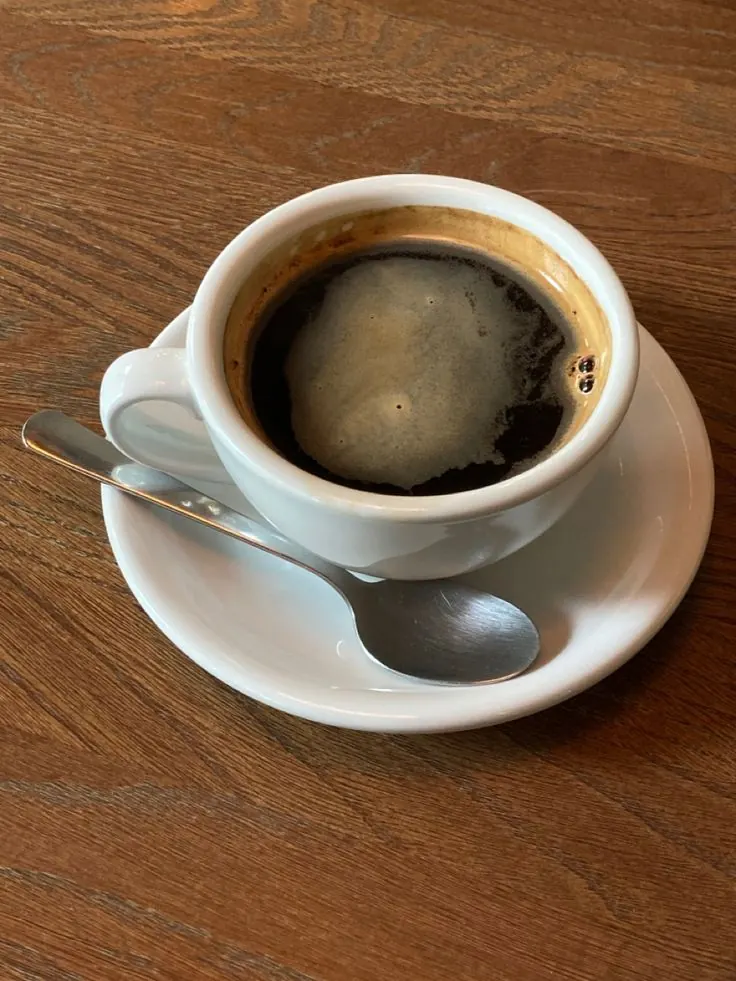
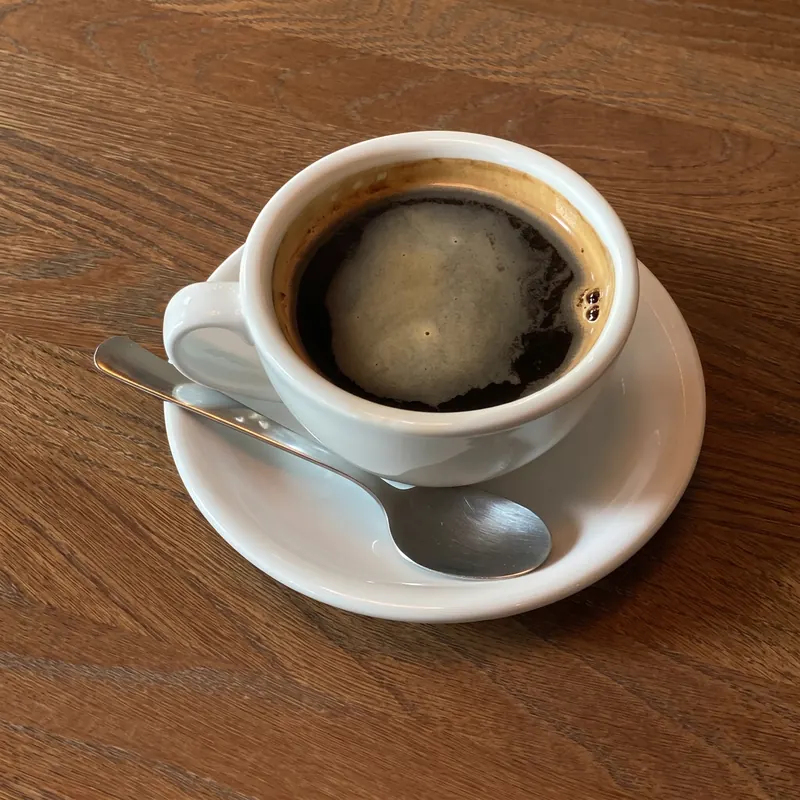
feat(fotos): unifica platos en formato cuadrado 1:1
Reemplaza fotos de carta por versiones cuadradas 2048px del mismo plato. Limpia WebP sin uso y actualiza dimensiones en tarjetas.

diff --git a/app.js b/app.js
@@ -5,7 +5,7 @@ const ITEMS = [
  {c:'tacos',t:'Tacos Birria x3',p:'S/28',d:'Adobo birria, carne jugosa, queso fundido + consomé.',tag:'Más pedido',m:'quiero+Tacos+Birria+x3',img:'./img/webp/taco-birria.webp'},
  {c:'tacos',t:'Tacos Tradicionales',p:'S/14–20',d:'Carne o pollo, lechuga, tomate, guacamole, crema, cebolla caramelizada. 2x S/14 / 3x S/20.',tag:'Clásico',m:'quiero+Tacos+Tradicionales',img:'./img/webp/taco-tradicional.webp'},
  {c:'tacos',t:'Tacos Bell x3',p:'S/24',d:'Tacos crocantes con bastante queso y sus cremas. Carne o pollo.',tag:'Crocante',m:'quiero+Tacos+Bell'},
- {c:'espe',t:'Enchiladas Rojas x2',p:'S/18',d:'Base de tomate y tortillas, queso derretido bañado con crema y salsa roja.',tag:'Salsa casera',m:'quiero+Enchiladas+Rojas',img:'./img/webp/enchilada.webp'},
+ {c:'espe',t:'Enchiladas Rojas x2',p:'S/18',d:'Base de tomate y tortillas, queso derretido bañado con crema y salsa roja.',tag:'Salsa casera',m:'quiero+Enchiladas+Rojas',img:'./img/webp/enchiladas-rojas.webp'},
  {c:'espe',t:'Quesadillas',p:'S/16',d:'Pollito con chilli y quesito crocante en plancha (guacamole, crema, salsa roja).',tag:'Favorito',m:'quiero+Quesadillas',img:'./img/webp/quesadilla.webp'},
  {c:'espe',t:'Nachos',p:'S/28',d:'Nachos, carne, cheddar, guacamole, salsa blanca, salsa mexicana y jalapeños cortados.',tag:'Para compartir',m:'quiero+Nachos'},
  {c:'tacos',t:'Taquitos x2',p:'S/16',d:'Crocante y jugosa carne, queso horneado.',tag:'Crocantes',m:'quiero+Taquitos'},
@@ -13,12 +13,12 @@ const ITEMS = [
  {c:'alitas',t:'Alita BBQ x6',p:'S/21',d:'Incluye papas crocantes.',tag:'Con papas',m:'quiero+Alitas+BBQ',img:'./img/webp/alitas.webp'},
  {c:'alitas',t:'Alita Acevichada x6',p:'S/21',d:'Incluye papas crocantes.',tag:'Con papas',m:'quiero+Alitas+Acevichada',img:'./img/webp/alitas.webp'},
  {c:'alitas',t:'Alita Búfalo x6',p:'S/21',d:'Incluye papas crocantes.',tag:'Picante',m:'quiero+Alitas+Bufalo',img:'./img/webp/alitas.webp'},
- {c:'chamoy',t:'Chamoyada de Fresa',p:'S/16–21',d:'Fresa natural con chamoy y tajín. 16oz S/16 / 20oz S/21.',tag:'Helada',m:'quiero+Chamoyada+Fresa'},
- {c:'chamoy',t:'Chamoyada de Mango',p:'S/16–21',d:'Mango natural con chamoy y tajín. 16oz S/16 / 20oz S/21.',tag:'Helada',m:'quiero+Chamoyada+Mango',img:'./img/webp/chamoyada-mango.webp'},
- {c:'chamoy',t:'Mango Enchilado',p:'S/14',d:'Mango, tajín, chamoy, takis, limón.',tag:'Botana',m:'quiero+Mango+enchilado'},
+ {c:'chamoy',t:'Chamoyada de Fresa',p:'S/16–21',d:'Fresa natural con chamoy y tajín. 16oz S/16 / 20oz S/21.',tag:'Helada',m:'quiero+Chamoyada+Fresa',img:'./img/webp/chamoyada.webp'},
+ {c:'chamoy',t:'Chamoyada de Mango',p:'S/16–21',d:'Mango natural con chamoy y tajín. 16oz S/16 / 20oz S/21.',tag:'Helada',m:'quiero+Chamoyada+Mango',img:'./img/webp/chamoyada.webp'},
+ {c:'chamoy',t:'Mango Enchilado',p:'S/14',d:'Mango, tajín, chamoy, takis, limón.',tag:'Botana',m:'quiero+Mango+enchilado',img:'./img/webp/chamoyada.webp'},
  {c:'frias',t:'Frappés',p:'S/10–12',d:'Moca, café, fresa, Oreo, menta o chocolate.',tag:'6 sabores',m:'quiero+Frappe'},
  {c:'frias',t:'Néctar',p:'S/3',d:'Cocona o chicha.',tag:'Típico',m:'quiero+Nectar'},
- {c:'frias',t:'Gaseosas',p:'S/3–9',d:'Coca Cola e Inka Cola. Personal plástico S/4.50, personal vidrio S/3, grande vidrio S/9.',tag:'Heladas',m:'quiero+Gaseosa',img:'./img/webp/coca-cola-vidrio.webp'},
+ {c:'frias',t:'Gaseosas',p:'S/3–9',d:'Coca Cola e Inka Cola. Personal plástico S/4.50, personal vidrio S/3, grande vidrio S/9.',tag:'Heladas',m:'quiero+Gaseosa',img:'./img/webp/coca-cola.webp'},
  {c:'frias',t:'Refrescos y Frozen',p:'S/10–15',d:'Cocona y maracuyá S/10. Limonada frozen y frozen de cocona/maracuyá S/14. Horchata S/15.',tag:'Natural',m:'quiero+Refresco'},
  {c:'frias',t:'Heineken',p:'S/10',d:'Cerveza helada.',tag:'Helada',m:'quiero+Heineken',img:'./img/webp/heineken.webp'},
  {c:'calientes',t:'Café',p:'S/3',d:'Café pasado.',tag:'Caliente',m:'quiero+Cafe',img:'./img/webp/cafe.webp'},

diff --git a/index.html b/index.html
@@ -132,7 +132,7 @@ tailwind.config = {
 <h2 data-reveal class="font-display text-4xl sm:text-5xl mt-1">Favoritos de la casa</h2>
 <div class="mt-10 grid md:grid-cols-3 gap-6 text-left">
 <article data-reveal class="card-dark rounded-3xl overflow-hidden group">
-<div class="relative h-60 overflow-hidden"><img src="./img/webp/taco-birria.webp" alt="Tacos Birria con consomé" width="960" height="1280" loading="lazy" decoding="async" class="w-full h-full object-cover group-hover:scale-105 transition duration-700"/>
+<div class="relative h-60 overflow-hidden"><img src="./img/webp/taco-birria.webp" alt="Tacos Birria con consomé" width="800" height="800" loading="lazy" decoding="async" class="w-full h-full object-cover group-hover:scale-105 transition duration-700"/>
 </div>
 <div class="p-6"><div class="flex justify-between gap-2"><h3 class="font-display text-xl">Tacos Birria</h3><span class="font-price text-xl text-mango">3x S/28</span></div>
 <p class="text-sm text-crema/75 mt-2">Carne horneada jugosa, queso fundido, cilantro y consomé calientito. Opción 2x S/14.</p>
@@ -146,7 +146,7 @@ tailwind.config = {
 <a class="mt-4 inline-flex items-center gap-1 text-sm font-bold text-crema hover:text-chamoyl px-3 py-2.5 -ml-3 min-h-[44px]" target="_blank" rel="noopener" href="https://wa.me/51907318885?text=Hola%20Frejolito%2C%20quiero%20Tacos%20Bell">Pedir →</a></div>
 </article>
 <article data-reveal class="card-dark rounded-3xl overflow-hidden group">
-<div class="relative h-60 overflow-hidden"><img src="./img/webp/enchilada.webp" alt="Enchiladas rojas con crema y queso" width="800" height="887" loading="lazy" decoding="async" class="w-full h-full object-cover group-hover:scale-105 transition duration-700"/>
+<div class="relative h-60 overflow-hidden"><img src="./img/webp/enchiladas-rojas.webp" alt="Enchiladas rojas con crema y queso" width="800" height="800" loading="lazy" decoding="async" class="w-full h-full object-cover group-hover:scale-105 transition duration-700"/>
 </div>
 <div class="p-6"><div class="flex justify-between gap-2"><h3 class="font-display text-xl">Enchiladas Rojas</h3><span class="font-price text-xl text-mango">2x S/18</span></div>
 <p class="text-sm text-crema/75 mt-2">Salsa de chiles secos, crema, queso y cebolla.</p>
